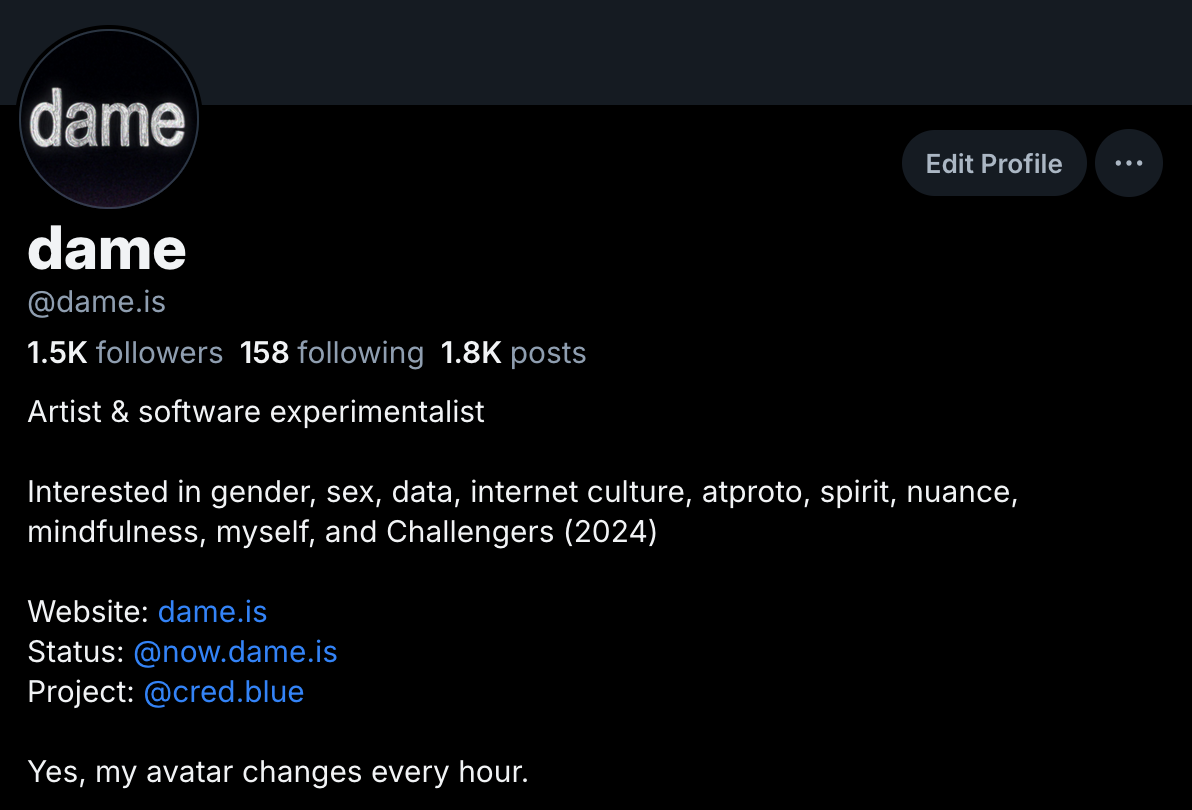
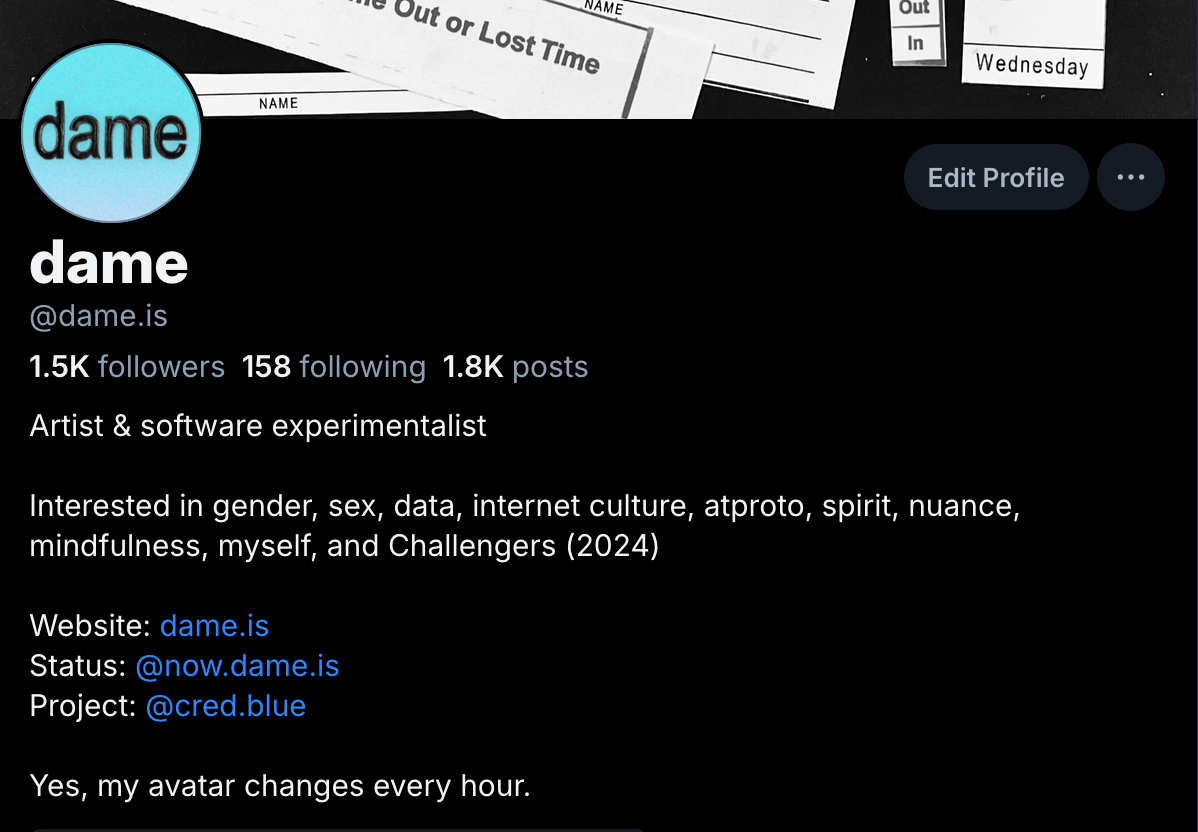
add new image to blog post

diff --git a/data/blog/how-i-made-an-automated-dynamic-avatar-for-my-bluesky-profile.md b/data/blog/how-i-made-an-automated-dynamic-avatar-for-my-bluesky-profile.md
@@ -60,7 +60,9 @@ Here’s a copy of [the Apple Shortcut file](https://www.icloud.com/shortcuts/dd
 
 I’d like to create a Version 2 of this project in a few weeks that adds some additional elements like logic paths and additional visuals that display based on weather data (fog, rain, cloud cover, rare random events like shooting stars, etc). It would also be nice to automate my banner image to match the backgrounds of the avatar.
 
-I’m also planning to upgrade my status update account ([@now.dame.is](https://bsky.app/profile/did:plc:jucg4ddb2budmcy2pjo5fo2g)) to have a dynamic bio that includes regularly updated data about my current psychological state + environment (focus level, mood, current song, indoor temp, etc).
+In addition to this automation, I also added a dynamic bio to my status update account ([@now.dame.is](https://bsky.app/profile/did:plc:jucg4ddb2budmcy2pjo5fo2g)) that includes regularly updated data about my current psychological state + environment (focus level, mood, current song, indoor temp, etc).
+
+![A screenshot of my status update profile showing dynamic data](/images/blog/automated-avatar-graphics/bio-profile.png "bio profile example")
 
 Using Apple Shortcuts to automate Bluesky data has a lot of interesting experimental potential thanks to the large number of automation triggers that Apple provides. Everything from sound recognition to whether or you’re stationary or not... and don’t even get me started with NFC tags. I hope we see more people trying weird things in the future.
 
